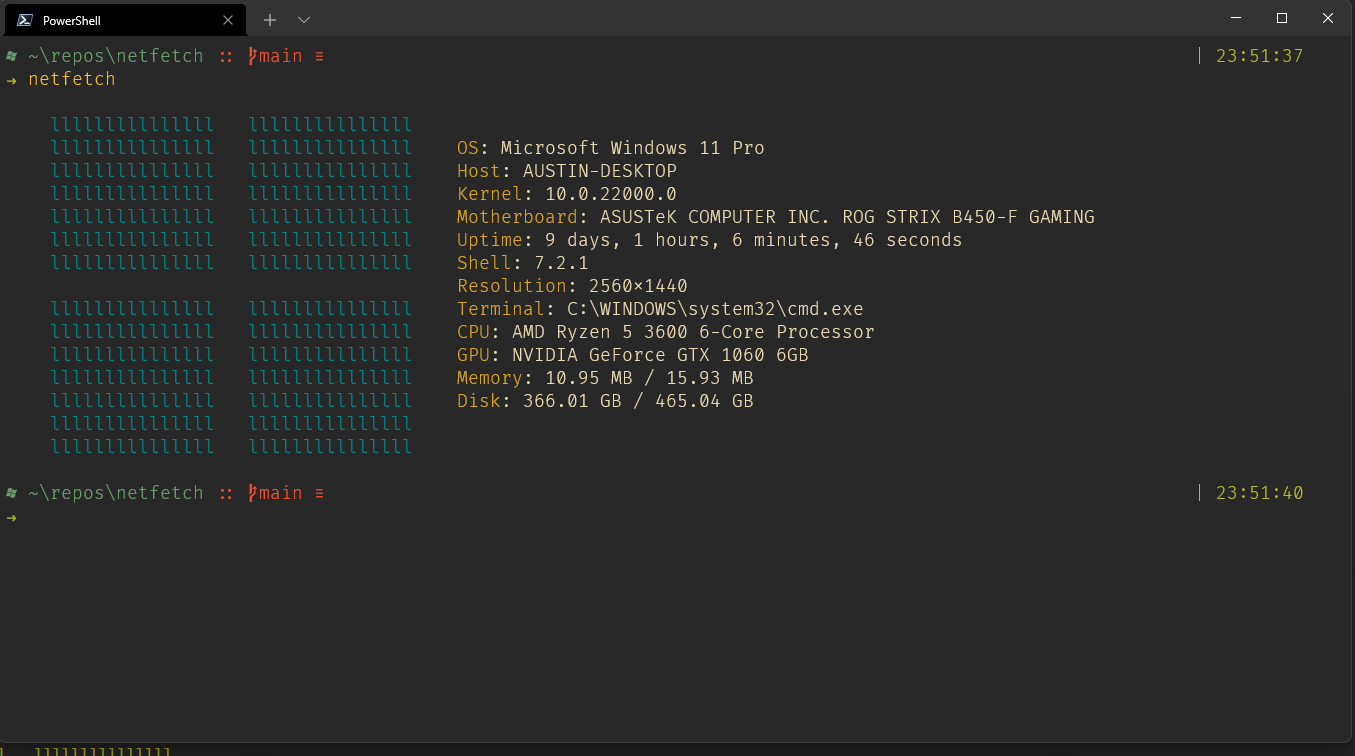
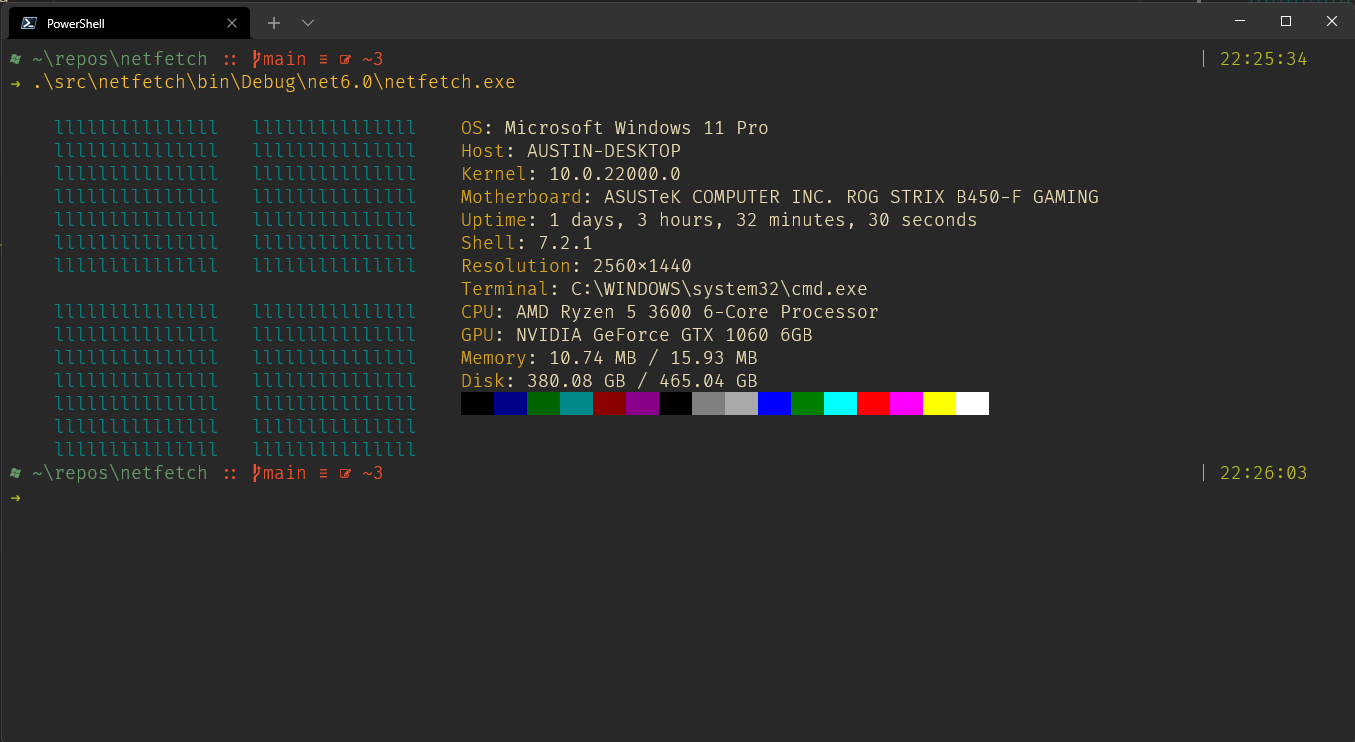
feat: finish up windows implementation

diff --git a/src/netfetch/WinSystemInfo.cs b/src/netfetch/WinSystemInfo.cs
@@ -14,8 +14,10 @@ using Pastel;
 [SupportedOSPlatform("windows")]
 public class WinSystemInfo : ISystemInfo
 {
-
-    public static Dictionary<string, string> sysInfo = new Dictionary<string, string>() {
+    public Dictionary<string, string> sysInfo { get; }
+    public WinSystemInfo()
+    {
+        sysInfo = new Dictionary<string, string>() {
         {"OS", OS},
         {"Host", Host},
         {"Kernel", Kernel},
@@ -27,10 +29,14 @@ public class WinSystemInfo : ISystemInfo
         {"CPU", CPU},
         {"GPU", GPU},
         {"Memory", Memory},
-        {"Disk", Disk}
+        {"Disk", Disk},
+        {"ColorBlock", ColorBlock}
     };
+    }
 
-    static Dictionary<string, string> MakeSystemManagementQuery(string ClassName, params string[] properties)
+
+
+    public Dictionary<string, string> MakeSystemManagementQuery(string ClassName, params string[] properties)
     {
         Dictionary<string, string> result = new Dictionary<string, string>();
         ManagementObjectSearcher searcher = new ManagementObjectSearcher("SELECT * FROM " + ClassName);
@@ -46,24 +52,89 @@ public class WinSystemInfo : ISystemInfo
         }
         return result;
     }
+    public string logo
+    {
+        get
+        {
+            switch (OS)
+            {
+                case string a when a.Contains("Windows 11"):
+                    return @"
+    lllllllllllllll   lllllllllllllll
+    lllllllllllllll   lllllllllllllll
+    lllllllllllllll   lllllllllllllll
+    lllllllllllllll   lllllllllllllll
+    lllllllllllllll   lllllllllllllll
+    lllllllllllllll   lllllllllllllll
+    lllllllllllllll   lllllllllllllll
+    
+    lllllllllllllll   lllllllllllllll
+    lllllllllllllll   lllllllllllllll
+    lllllllllllllll   lllllllllllllll
+    lllllllllllllll   lllllllllllllll
+    lllllllllllllll   lllllllllllllll
+    lllllllllllllll   lllllllllllllll
+    lllllllllllllll   lllllllllllllll";
+                case string b when b.Contains("Windows 10") || b.Contains("Windows 8.1") || b.Contains("Windows 8") || b.Contains("Windows 7"):
+                    return @"
+                        ....,,:;+ccllll
+            ...,,+:;  cllllllllllllllllll
+    ,cclllllllllll  lllllllllllllllllll
+    llllllllllllll  lllllllllllllllllll
+    llllllllllllll  lllllllllllllllllll
+    llllllllllllll  lllllllllllllllllll
+    llllllllllllll  lllllllllllllllllll
+    llllllllllllll  lllllllllllllllllll
+                                        
+    llllllllllllll  lllllllllllllllllll
+    llllllllllllll  lllllllllllllllllll
+    llllllllllllll  lllllllllllllllllll
+    llllllllllllll  lllllllllllllllllll
+    llllllllllllll  lllllllllllllllllll
+    ``'ccllllllllll  lllllllllllllllllll
+            ``' \\*::  :ccllllllllllllllll
+                            ````````''*::cl
+                                        ````";
+                case string c when c.Contains("Windows 7") || c.Contains("Windows Vista") || c.Contains("Windows XP"):
+                    return @"
+         ,.=:!!t3Z3z.,               
+        :tt:::tt333EE3               
+        Et:::ztt33EEE  ${e}[32m@Ee.,      ..,
+       ;tt:::tt333EE7 ${e}[32m;EEEEEEttttt33#
+      :Et:::zt333EEQ. ${e}[32mSEEEEEttttt33QL
+      it::::tt333EEF ${e}[32m@EEEEEEttttt33F 
+     ;3=*^``````'*4EEV ${e}[32m:EEEEEEttttt33@. 
+     ,.=::::it=., ${e}[31m`` ${e}[32m@EEEEEEtttz33QF  
+    ;::::::::zt33)   ${e}[32m'4EEEtttji3P*   
+   :t::::::::tt33 ${e}[33m:Z3z..  ${e}[32m```` ${e}[33m,..g.   
+   i::::::::zt33F ${e}[33mAEEEtttt::::ztF    
+  ;:::::::::t33V ${e}[33m;EEEttttt::::t3     
+  E::::::::zt33L ${e}[33m@EEEtttt::::z3F     
+ {3=*^``````'*4E3) ${e}[33m;EEEtttt:::::tZ``     
+             `` ${e}[33m:EEEEtttt::::z7       
+                 'VEzjt:;;z>*``                       ";
 
-    string logo = @"
-    lllllllllllllll   lllllllllllllll
-    lllllllllllllll   lllllllllllllll
-    lllllllllllllll   lllllllllllllll
-    lllllllllllllll   lllllllllllllll
-    lllllllllllllll   lllllllllllllll
-    lllllllllllllll   lllllllllllllll
-    lllllllllllllll   lllllllllllllll
+                default:
+                    return "";
+            }
 
-    lllllllllllllll   lllllllllllllll
-    lllllllllllllll   lllllllllllllll
-    lllllllllllllll   lllllllllllllll
-    lllllllllllllll   lllllllllllllll
-    lllllllllllllll   lllllllllllllll
-    lllllllllllllll   lllllllllllllll
-    lllllllllllllll   lllllllllllllll
-    ";
+        }
+    }
+
+    public string ColorBlock
+    {
+        get
+        {
+            string s = "";
+            foreach (var color in Enum.GetNames(typeof(ConsoleColor)))
+            {
+                s += "███".Pastel(Color.FromName(color));
+            }
+            return s;
+        }
+    }
+
+
 
     public void Fetch(string[] args)
     {
@@ -80,6 +151,12 @@ public class WinSystemInfo : ISystemInfo
                 {
                     Console.Write("\t\t\t\t");
                 }
+                if (kvp.Key.Equals("ColorBlock"))
+                {
+                    Console.WriteLine($"{line.Pastel(Color.DarkCyan)}\t {kvp.Value}");
+                    index++;
+                    continue;
+                }
                 Console.WriteLine($"{line.Pastel(Color.DarkCyan)}\t {kvp.Key.Pastel(Color.Goldenrod)}: {kvp.Value}");
             }
             catch (Exception e)
@@ -91,7 +168,7 @@ public class WinSystemInfo : ISystemInfo
         }
 
     }
-    static string Disk
+    public string Disk
     {
         get
         {
@@ -102,7 +179,7 @@ public class WinSystemInfo : ISystemInfo
             return $"{used / 1024 / 1024 / 1024:0.00} GB / {total / 1024 / 1024 / 1024:0.00} GB";
         }
     }
-    static string Memory
+    public string Memory
     {
         get
         {
@@ -113,7 +190,7 @@ public class WinSystemInfo : ISystemInfo
             return $"{used / 1024 / 1024:0.00} MB / {total / 1024 / 1024:0.00} MB";
         }
     }
-    static string GPU
+    public string GPU
     {
         get
         {
@@ -121,7 +198,7 @@ public class WinSystemInfo : ISystemInfo
             return gpuProps["Name"];
         }
     }
-    static string CPU
+    public string CPU
     {
         get
         {
@@ -129,14 +206,14 @@ public class WinSystemInfo : ISystemInfo
             return cpuProps["Name"];
         }
     }
-    static string Terminal
+    public string Terminal
     {
         get
         {
             return Environment.GetEnvironmentVariable("ComSpec")!;
         }
     }
-    static string Resolution
+    public string Resolution
     {
         get
         {
@@ -145,7 +222,7 @@ public class WinSystemInfo : ISystemInfo
             return $"{resProps["CurrentHorizontalResolution"]}x{resProps["CurrentVerticalResolution"]}";
         }
     }
-    static string Shell
+    public string Shell
     {
         get
         {
@@ -167,7 +244,7 @@ public class WinSystemInfo : ISystemInfo
         }
     }
 
-    static string Uptime
+    public string Uptime
     {
         get
         {
@@ -176,7 +253,7 @@ public class WinSystemInfo : ISystemInfo
     }
 
 
-    static string Motherboard
+    public string Motherboard
     {
         get
         {
@@ -185,14 +262,14 @@ public class WinSystemInfo : ISystemInfo
         }
     }
 
-    static string Kernel
+    public string Kernel
     {
         get
         {
             return Environment.OSVersion.Version.ToString();
         }
     }
-    static string Host
+    public string Host
     {
         get
         {
@@ -200,7 +277,7 @@ public class WinSystemInfo : ISystemInfo
         }
 
     }
-    public static string OS
+    public string OS
     {
         get
         {

diff --git a/tests/netfetch.Tests/WinSystemInfoTests.cs b/tests/netfetch.Tests/WinSystemInfoTests.cs
@@ -11,7 +11,7 @@ public class ISystemInfoTests
     [Fact]
     public void Test_OS_Contains_Windows()
     {
-        Assert.Contains("Windows", WinSystemInfo.OS);
+        Assert.Contains("Windows", new WinSystemInfo().OS);
     }
 
 }

diff --git a/src/netfetch/ISystemInfo.cs b/src/netfetch/ISystemInfo.cs
@@ -1,4 +1,6 @@
 public interface ISystemInfo
 {
+    Dictionary<string, string> sysInfo { get; }
     void Fetch(string[] args);
+    string ColorBlock { get; }
 }

diff --git a/README.md b/README.md
@@ -1,4 +1,18 @@
+# netfetch
 netfetch is a cross-platform system information tool
 
 
 ![netfetch](netfetch.png)
+
+## Supported platforms
+netfetch is written with .NET 6, so I intend to fully support other operating systems
+
+- [X] Windows 11->Vista
+- [ ] Linux
+  - [ ] Fedora
+  - [ ] Ubuntu
+  - [ ] Other
+- [ ] macOS
+
+
+
